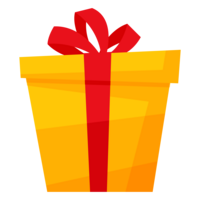
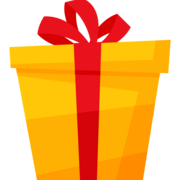
Implemented repositioning of gift and score update

diff --git a/src/game.cpp b/src/game.cpp
@@ -8,6 +8,7 @@ Game::Game(std::size_t grid_width, std::size_t grid_height)
       random_w(0, static_cast<int>(grid_width - 1)),
       random_h(0, static_cast<int>(grid_height - 1)) {
   PlaceFood();
+  PlaceGift();
 }
 
 void Game::Run(Controller const &controller, Renderer &renderer,
@@ -25,7 +26,7 @@ void Game::Run(Controller const &controller, Renderer &renderer,
     // Input, Update, Render - the main game loop.
     controller.HandleInput(running, snake);
     Update();
-    renderer.Render(snake, food);
+    renderer.Render(snake, food, gift);
 
     frame_end = SDL_GetTicks();
 
@@ -65,6 +66,7 @@ void Game::PlaceFood() {
   }
 }
 
+
 void Game::Update() {
   if (!snake.alive) return;
 
@@ -73,24 +75,40 @@ void Game::Update() {
   int new_x = static_cast<int>(snake.head_x);
   int new_y = static_cast<int>(snake.head_y);
 
-  // Check if there's food over here
+  // Check if snake has reached the food
   if (food.x == new_x && food.y == new_y) {
     score++;
-    PlaceFood();
+    // new food position
+    PlaceFood(); 
     // Grow snake and increase speed.
     snake.GrowBody();
     snake.speed += 0.02;
+  }
+
+  // Check if snake has reached the gift
+  if (gift.x == new_x && gift.y == new_y){
+     score += 5;
+     // new gift position
+     PlaceGift(); 
+     snake.speed += 0.02;
+  }
+}
+
+void Game::PlaceGift() {
+  int x, y;
+  while (true) {
+    x = random_w(engine);
+    y = random_h(engine);
+    // Check that the location is not occupied by a snake item before placing
+    // Gift.
+    if (!snake.SnakeCell(x, y)) {
+      gift.x = x;
+      gift.y = y;
+      return;
+    }
   }
 }
 
 int Game::GetScore() const { return score; }
 int Game::GetSize() const { return snake.size; }
 
-/*SDL_Texture* Game::loadTexture(const std::string &file, SDL_Renderer *sdl_renderer){
-	SDL_Texture *texture = IMG_LoadTexture(sdl_renderer, file.c_str());
-	if (texture == nullptr){
-		std::cerr << "Texture could not be loaded.\n";
-    std::cerr << " SDL_Error: " << SDL_GetError() << "\n";
-	}
-	return texture;
-}*/

diff --git a/src/renderer.cpp b/src/renderer.cpp
@@ -48,7 +48,7 @@ Renderer::~Renderer() {
   SDL_Quit();
 }
 
-void Renderer::Render(Snake const &snake, SDL_Point const &food) {
+void Renderer::Render(Snake const &snake, SDL_Point const &food, SDL_Point const &gift) {
   SDL_Rect block;
   block.w = screen_width / grid_width;
   block.h = screen_height / grid_height;
@@ -82,7 +82,7 @@ void Renderer::Render(Snake const &snake, SDL_Point const &food) {
   SDL_RenderFillRect(sdl_renderer, &block);
 
   // Render gift
-  renderTexture(giftTexture, 20, 30, screen_width / grid_width, screen_height / grid_height);
+  renderTexture(giftTexture, gift.x * block.w, gift.y * block.h, (screen_width / grid_width), (screen_height / grid_height));
 
   // Update Screen
   SDL_RenderPresent(sdl_renderer);

diff --git a/src/renderer.h b/src/renderer.h
@@ -13,7 +13,7 @@ class Renderer {
            const std::size_t grid_width, const std::size_t grid_height);
   ~Renderer();
 
-  void Render(Snake const &snake, SDL_Point const &food);
+  void Render(Snake const &snake, SDL_Point const &food, SDL_Point const &gift);
   void UpdateWindowTitle(int score, int fps);
 
   SDL_Texture* loadTexture(const std::string &file);

diff --git a/src/game.h b/src/game.h
@@ -16,9 +16,6 @@ class Game {
   int GetScore() const;
   int GetSize() const;
 
-  //SDL_Texture* getGiftTexture(){ return gift_tex; };
-  //SDL_Texture* loadTexture(const std::string &file, SDL_Renderer *sdl_renderer);
-
 
  private:
   Snake snake;
@@ -35,6 +32,7 @@ class Game {
 
   void PlaceFood();
   void Update();
+  void PlaceGift();
 };
 
 #endif
